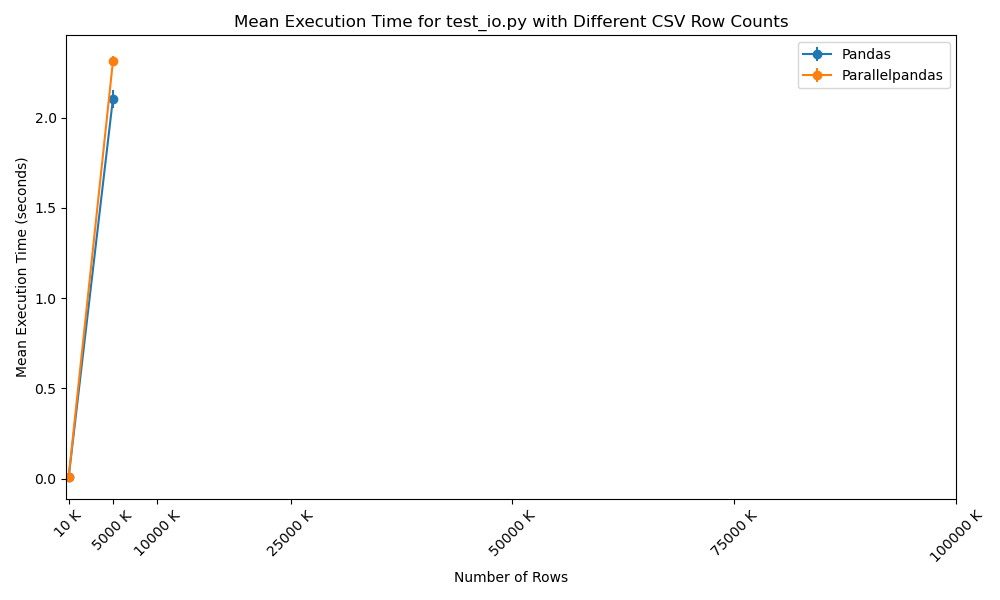
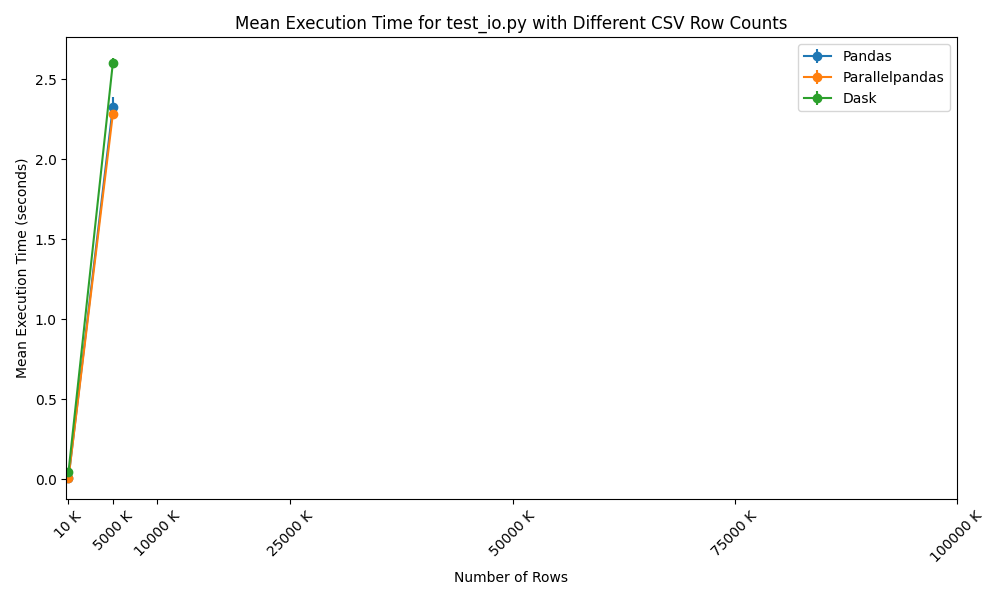
added dask to testio graph

diff --git a/dataframe_tests/graph_tests.py b/dataframe_tests/graph_tests.py
@@ -9,6 +9,7 @@ import numpy as np
 dataframes = {
     "pandas": "pandas_tests",
     "parallelpandas": "parallelpandas_tests",
+    "dask": "dask_tests"
     # Add more dataframes here if needed
 }
 
@@ -20,6 +21,11 @@ example_files = {
         # Add more test files specific to pandas if needed
     ],
     "parallelpandas": [
+        # "test_groupby.py",
+        "test_io.py",
+        # Add more test files specific to parallelpandas if needed
+    ],
+    "dask": [
         # "test_groupby.py",
         "test_io.py",
         # Add more test files specific to parallelpandas if needed
@@ -40,8 +46,8 @@ test_files = {
 
 # List of CSV files
 csv_files = [
-    "data/benchmarking_data_10000.csv",
-    "data/benchmarking_data_5000000.csv",
+    "../data/benchmarking_data_10000.csv",
+    "../data/benchmarking_data_5000000.csv",
     # "data/benchmarking_data_10000000.csv",
     # "data/benchmarking_data_25000000.csv",
     # "data/benchmarking_data_50000000.csv",

diff --git a/dataframe_tests/dask_tests/test_io.py b/dataframe_tests/dask_tests/test_io.py
@@ -17,7 +17,6 @@ def perform_io_operations(csv_file):
     # Initialize a Dask LocalCluster
     cluster = LocalCluster()
     client = Client(cluster)
-    print(f"Dask Dashboard is available at: {client.dashboard_link}")
 
     N_RUNS = 10  # Number of times to run the test
 
